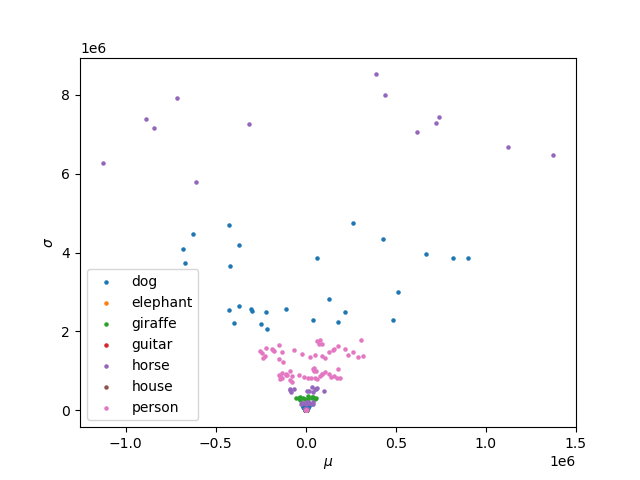
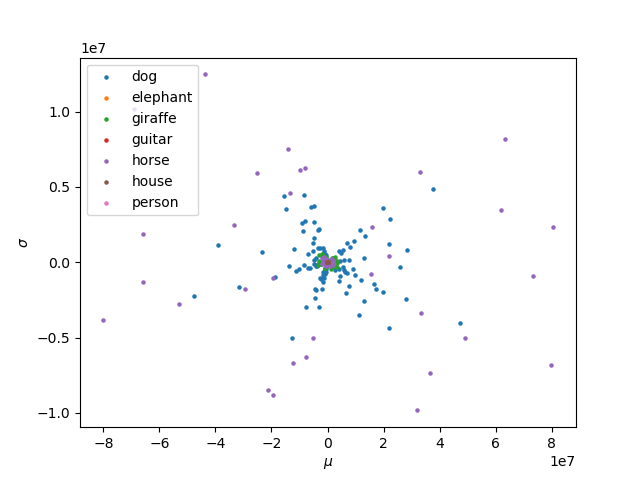
fix

diff --git a/draw_pzy.py b/draw_pzy.py
@@ -7,6 +7,7 @@ from datasets import PACS
 
 from models.resnet import PACSResNet
 from torch.utils.data import DataLoader
+from sklearn.decomposition import PCA
 
 import matplotlib.pyplot as plt
 
@@ -34,9 +35,11 @@ if __name__ == "__main__":
         state_dict.pop("r.C")
 
         model.load_state_dict(state_dict)
+        model.eval()
         dataset = PACS(root="./data", test_envs=[0])
         label_dist = {i: {"mu": [], "sigma": []} for i in range(7)}
 
+        pca = PCA(n_components=1) 
         for env in range(len(dataset.ENVIRONMENTS)):
             this_dataset = dataset[env]
             dataloader = DataLoader(dataset=this_dataset, batch_size=batch_size)
@@ -48,8 +51,12 @@ if __name__ == "__main__":
                     p = predict[i].item()
                     z_mu *= r_C
                     z_sigma *= r_C
-                    label_dist[p]["mu"].extend(z_mu.mean(dim=1).tolist())
-                    label_dist[p]["sigma"].extend(z_sigma.mean(dim=1).tolist())
+                    z_mu_fit = pca.fit_transform(z_mu.detach().numpy())
+                    z_sigma_fit = pca.fit_transform(z_sigma.detach().numpy())
+                    label_dist[p]["mu"].extend(z_mu_fit)
+                    label_dist[p]["sigma"].extend(z_sigma_fit)
+                break
+            break
 
         classes = ["dog", "elephant", "giraffe", "guitar", "horse", "house", "person"]
         plt.xlabel("$\mu$")
@@ -59,8 +66,8 @@ if __name__ == "__main__":
             mus = np.array(dist["mu"])
             sigmas = np.array(dist["sigma"])
             total = len(mus)
-            if total > 100:
-                sampled = random.sample(list(range(total)), 100)
+            if total > 500:
+                sampled = random.sample(list(range(total)), 500)
             else:
                 sampled = list(range(total))
 
